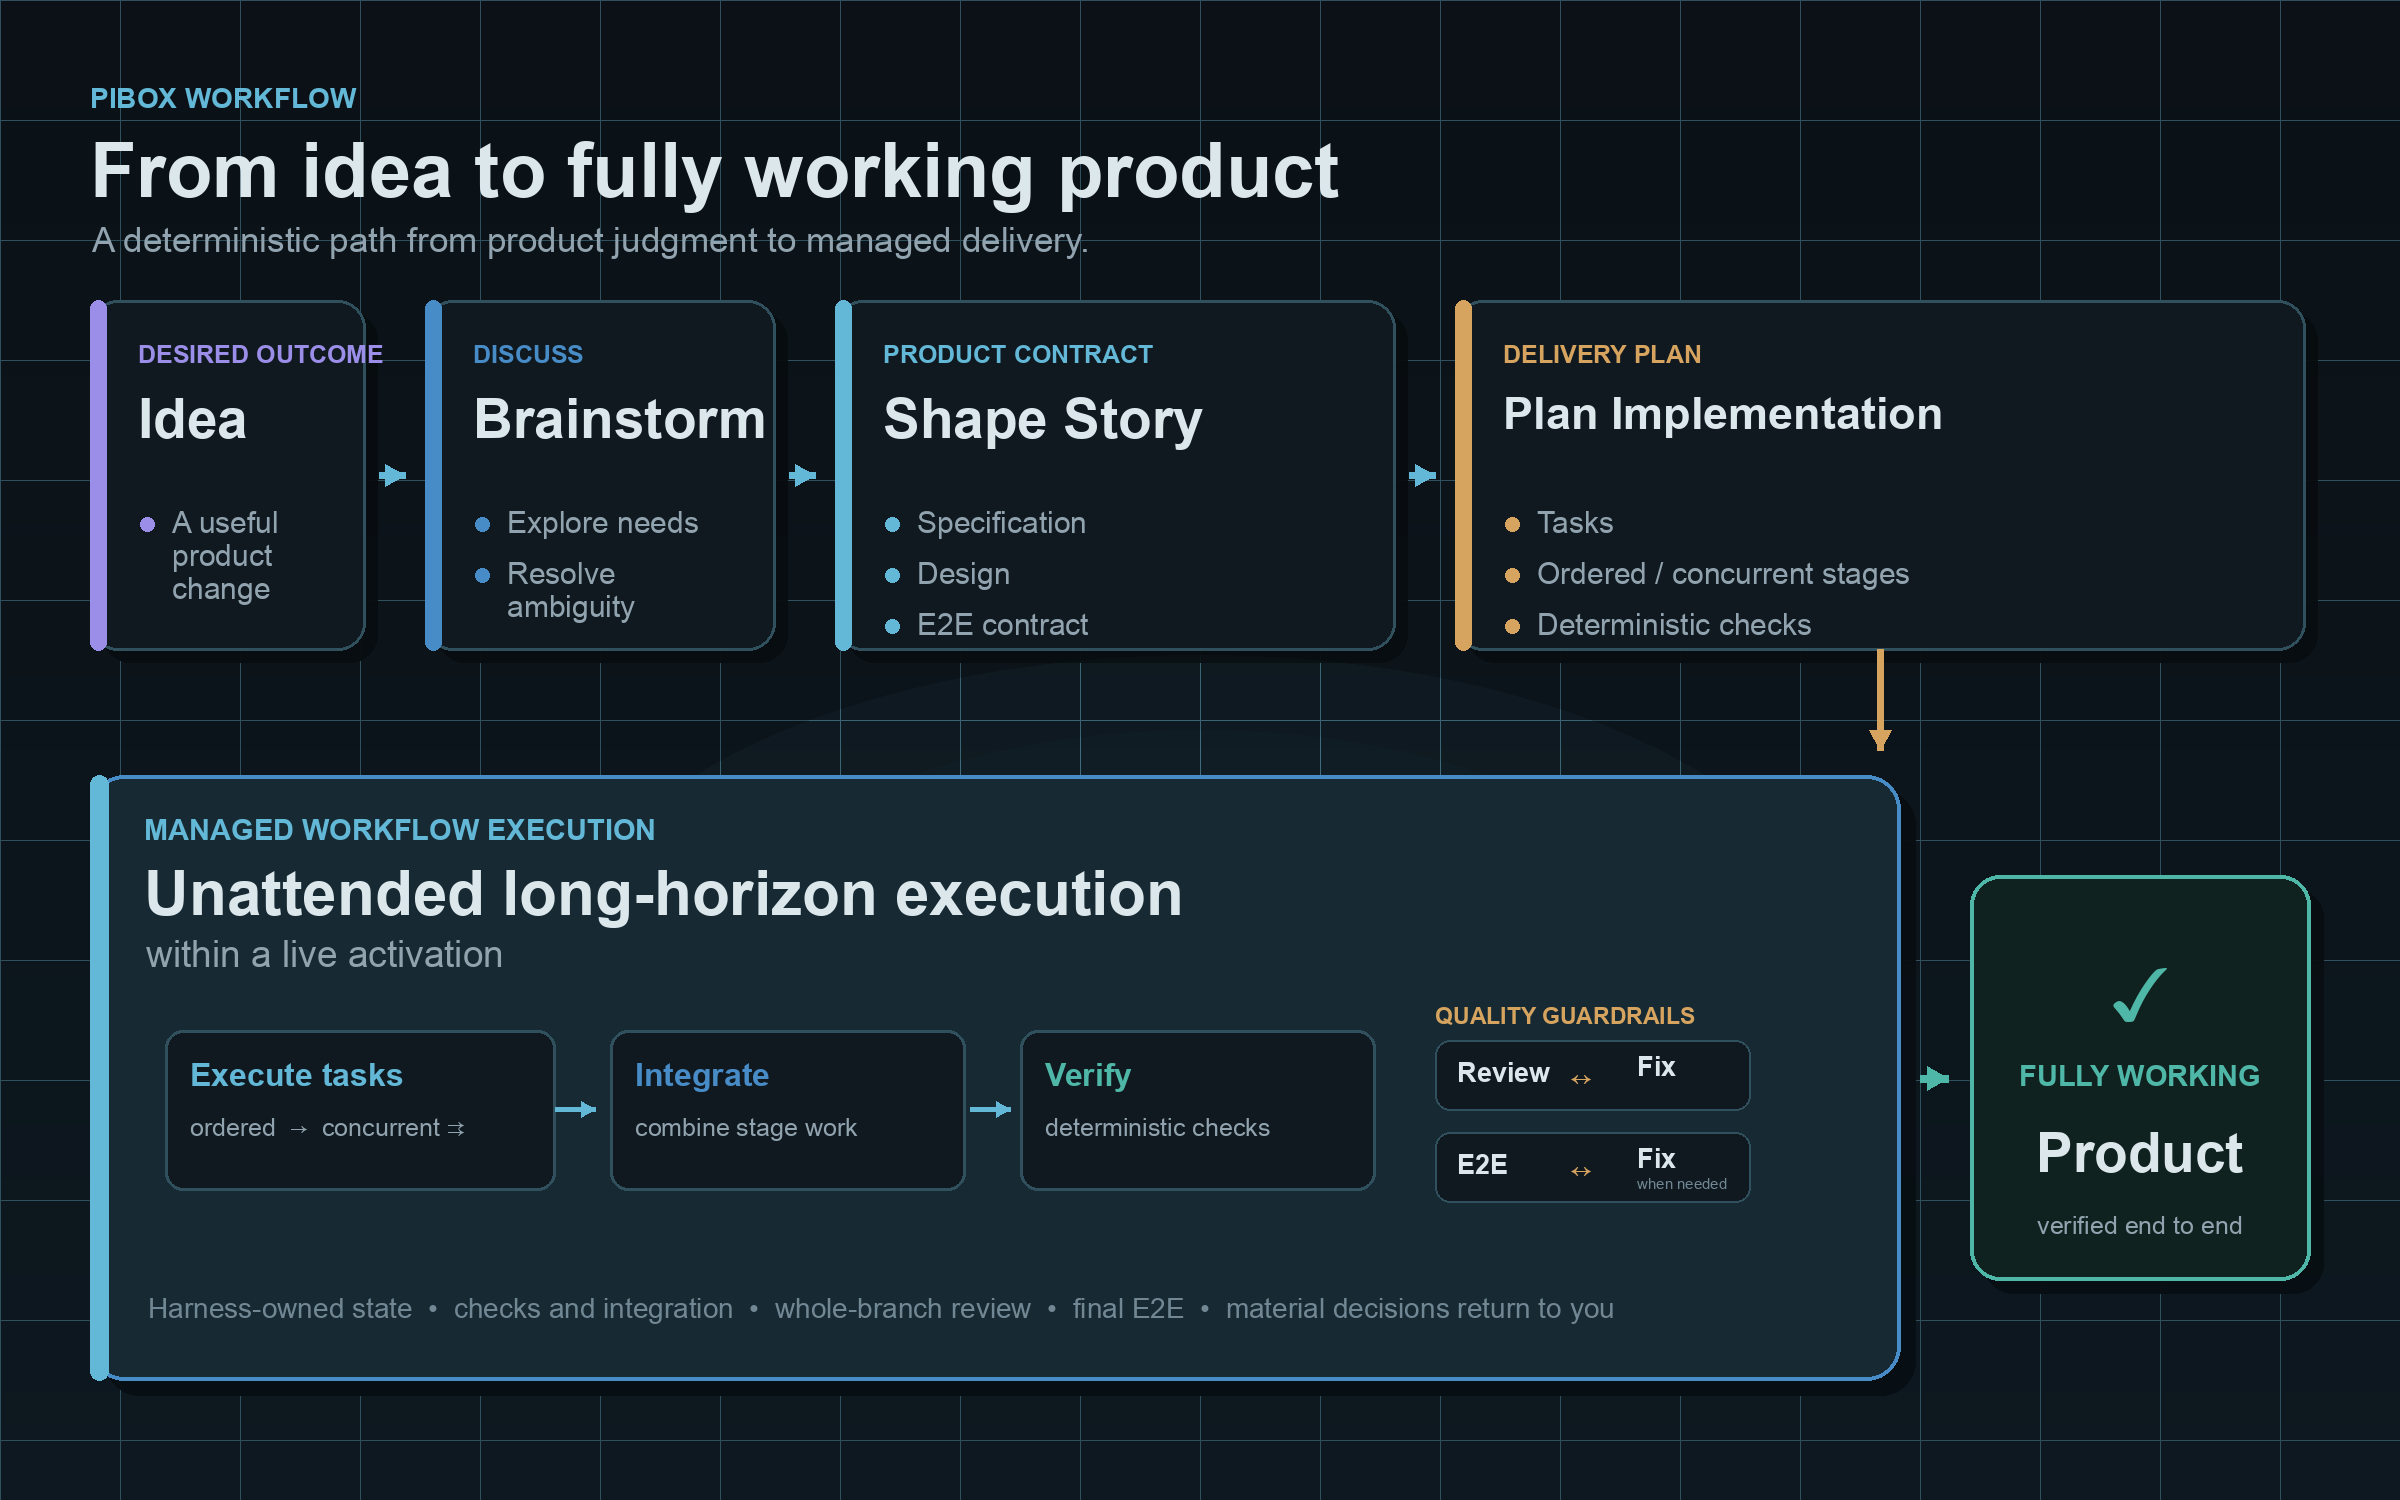
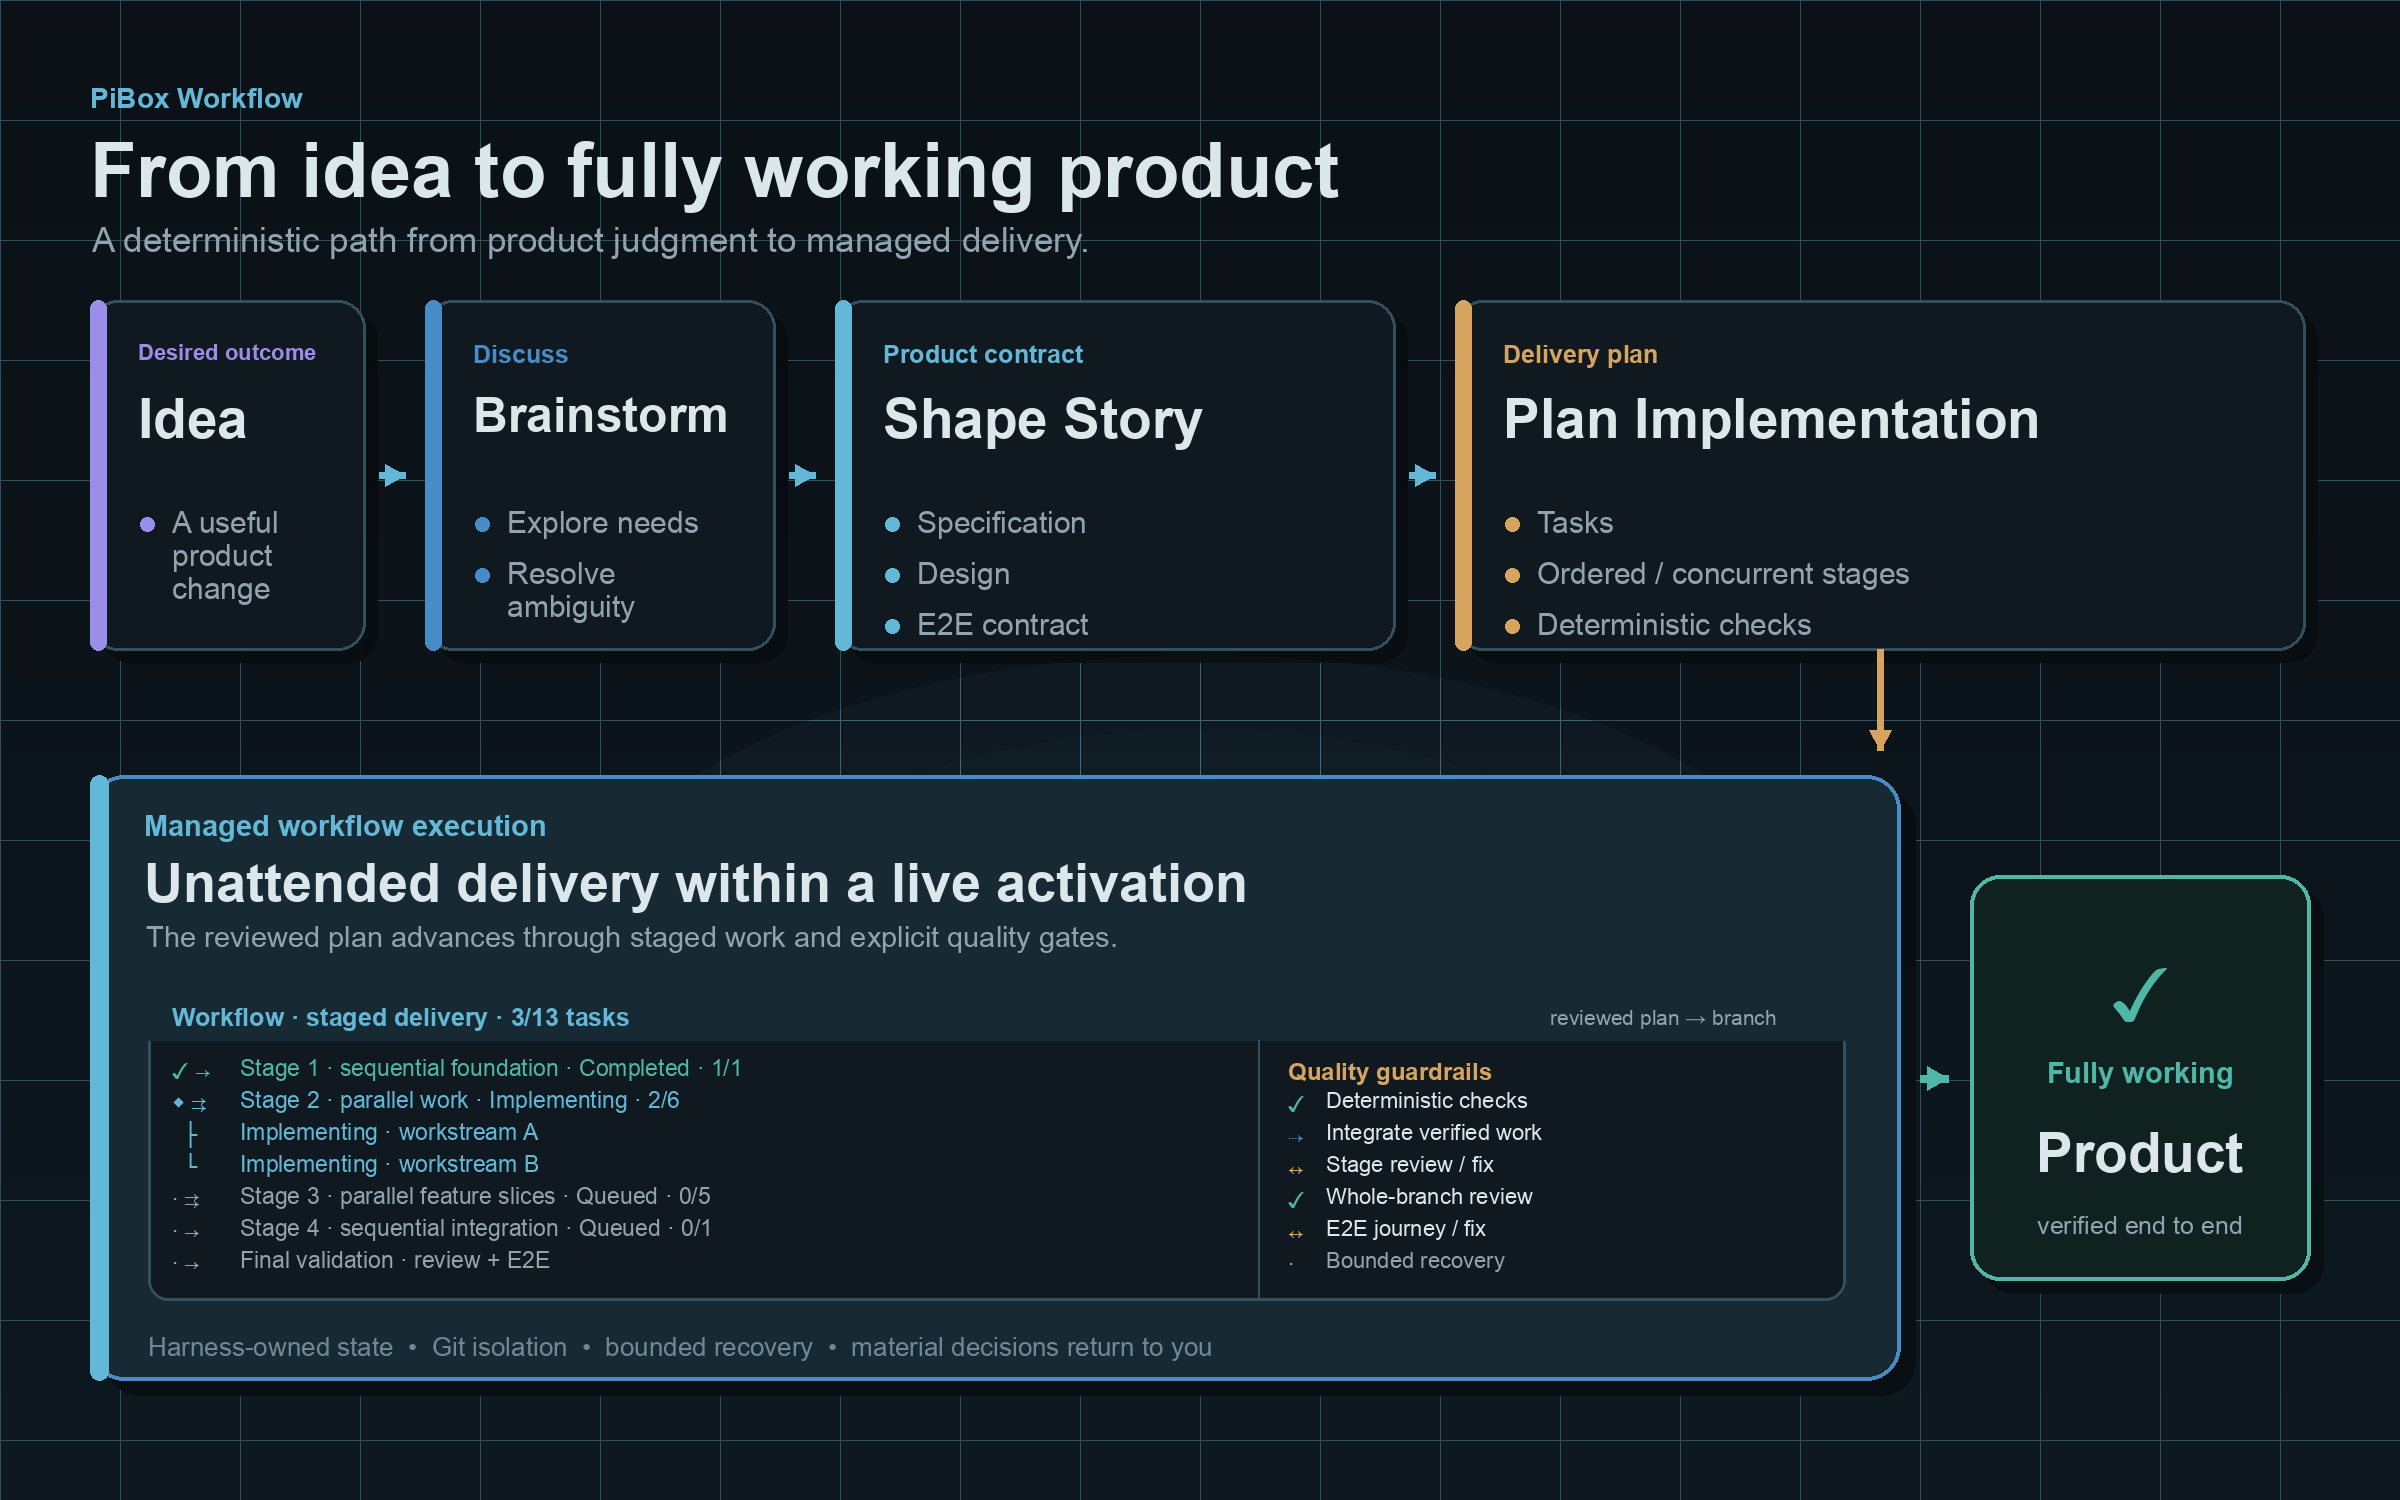
docs: refine workflow lifecycle chart

diff --git a/docs/assets/workflow-demo/render.py b/docs/assets/workflow-demo/render.py
@@ -98,6 +98,22 @@ def measure(draw: ImageDraw.ImageDraw, text: str, face: ImageFont.ImageFont) -> 
     return box[2] - box[0], box[3] - box[1]
 
 
+def fitting_font(
+    draw: ImageDraw.ImageDraw,
+    text: str,
+    kind: str,
+    maximum: int,
+    minimum: int,
+    max_width: int,
+) -> ImageFont.FreeTypeFont | ImageFont.ImageFont:
+    """Choose the largest available face that keeps a label inside its box."""
+    for size in range(maximum, minimum - 1, -1):
+        face = font(kind, size)
+        if measure(draw, text, face)[0] <= max_width:
+            return face
+    return font(kind, minimum)
+
+
 def wrap_text(
     draw: ImageDraw.ImageDraw, text: str, face: ImageFont.ImageFont, max_width: int
 ) -> list[str]:
@@ -226,18 +242,18 @@ class LifecycleNode:
 
 
 LIFECYCLE_NODES = (
-    LifecycleNode("Idea", "DESIRED OUTCOME", ("A useful product change",), (90, 300, 365, 650), P["violet"]),
-    LifecycleNode("Brainstorm", "DISCUSS", ("Explore needs", "Resolve ambiguity"), (425, 300, 775, 650), P["blue"]),
+    LifecycleNode("Idea", "Desired outcome", ("A useful product change",), (90, 300, 365, 650), P["violet"]),
+    LifecycleNode("Brainstorm", "Discuss", ("Explore needs", "Resolve ambiguity"), (425, 300, 775, 650), P["blue"]),
     LifecycleNode(
         "Shape Story",
-        "PRODUCT CONTRACT",
+        "Product contract",
         ("Specification", "Design", "E2E contract"),
         (835, 300, 1395, 650),
         P["cyan"],
     ),
     LifecycleNode(
         "Plan Implementation",
-        "DELIVERY PLAN",
+        "Delivery plan",
         ("Tasks", "Ordered / concurrent stages", "Deterministic checks"),
         (1455, 300, 2305, 650),
         P["amber"],
@@ -250,9 +266,11 @@ def lifecycle_card(image: Image.Image, node: LifecycleNode) -> None:
     rounded_panel(image, node.box, P["card"], P["separator"], radius=28, shadow=12, width=3)
     x1, y1, x2, y2 = node.box
     draw.rounded_rectangle((x1, y1, x1 + 16, y2), radius=8, fill=node.accent)
-    draw.text((x1 + 48, y1 + 40), node.kicker, font=font("bold", 25), fill=node.accent)
-    title_size = 55 if len(node.title) < 15 else 45
-    title_y = draw_wrapped(draw, (x1 + 48, y1 + 88), node.title, font("bold", title_size), P["ice"], x2 - x1 - 90, spacing=4)
+    text_width = x2 - x1 - 90
+    kicker_face = fitting_font(draw, node.kicker, "bold", 25, 18, text_width)
+    title_face = fitting_font(draw, node.title, "bold", 55, 36, text_width)
+    draw.text((x1 + 48, y1 + 40), node.kicker, font=kicker_face, fill=node.accent)
+    title_y = draw_wrapped(draw, (x1 + 48, y1 + 88), node.title, title_face, P["ice"], text_width, spacing=4)
     bullet_y = max(y1 + 205, title_y + 20)
     for bullet in node.bullets:
         draw.ellipse((x1 + 50, bullet_y + 12, x1 + 64, bullet_y + 26), fill=node.accent)
@@ -275,7 +293,7 @@ def render_lifecycle() -> None:
         gd.ellipse((1200 - radius, 980 - radius // 2, 1200 + radius, 980 + radius // 2), fill=(*hex_rgb(P["cyan"]), alpha))
     image.alpha_composite(glow)
 
-    draw.text((90, 82), "PIBOX WORKFLOW", font=font("bold", 28), fill=P["cyan"])
+    draw.text((90, 82), "PiBox Workflow", font=font("bold", 28), fill=P["cyan"])
     draw.text((90, 128), "From idea to fully working product", font=font("bold", 76), fill=P["ice"])
     draw.text(
         (92, 220),
@@ -293,45 +311,71 @@ def render_lifecycle() -> None:
     rounded_panel(image, execution, P["info"], P["blue"], radius=34, shadow=15, width=4)
     ex1, ey1, ex2, ey2 = execution
     draw.rounded_rectangle((ex1, ey1, ex1 + 18, ey2), radius=9, fill=P["cyan"])
-    draw.text((ex1 + 54, ey1 + 38), "MANAGED WORKFLOW EXECUTION", font=font("bold", 29), fill=P["cyan"])
-    draw.text((ex1 + 54, ey1 + 83), "Unattended long-horizon execution", font=font("bold", 62), fill=P["ice"])
-    draw.text((ex1 + 56, ey1 + 158), "within a live activation", font=font("regular", 37), fill=P["steel"])
-
-    # The central execution rail.
-    rail_y = ey1 + 300
-    phases = (
-        (ex1 + 75, 390, "Execute tasks", "ordered  →  concurrent ⇉", P["cyan"]),
-        (ex1 + 520, 355, "Integrate", "combine stage work", P["blue"]),
-        (ex1 + 930, 355, "Verify", "deterministic checks", P["teal"]),
+    draw.text((ex1 + 54, ey1 + 34), "Managed workflow execution", font=font("bold", 29), fill=P["cyan"])
+    draw.text((ex1 + 54, ey1 + 78), "Unattended delivery within a live activation", font=font("bold", 54), fill=P["ice"])
+    draw.text(
+        (ex1 + 56, ey1 + 145),
+        "The reviewed plan advances through staged work and explicit quality gates.",
+        font=font("regular", 29),
+        fill=P["steel"],
     )
-    for x, width, title, detail, accent in phases:
-        box = (x, rail_y - 45, x + width, rail_y + 115)
-        draw.rounded_rectangle(box, radius=18, fill=P["card"], outline=P["separator"], width=3)
-        draw.text((x + 25, rail_y - 18), title, font=font("bold", 32), fill=accent)
-        draw.text((x + 25, rail_y + 34), detail, font=font("unicode", 25), fill=P["steel"])
-    arrow(draw, (ex1 + 465, rail_y + 34), (ex1 + 505, rail_y + 34), width=5, head=16)
-    arrow(draw, (ex1 + 880, rail_y + 34), (ex1 + 920, rail_y + 34), width=5, head=16)
 
-    guard_x = ex1 + 1345
-    draw.text((guard_x, rail_y - 72), "QUALITY GUARDRAILS", font=font("bold", 23), fill=P["amber"])
-    guardrails = (("Review", "Fix"), ("E2E", "Fix"))
-    for index, (left, right) in enumerate(guardrails):
-        y = rail_y - 35 + index * 92
-        draw.rounded_rectangle((guard_x, y, guard_x + 315, y + 70), radius=15, fill=P["card"], outline=P["separator"], width=2)
-        draw.text((guard_x + 22, y + 17), left, font=font("bold", 27), fill=P["ice"])
-        draw.text((guard_x + 135, y + 14), "↔", font=font("unicode", 31), fill=P["amber"])
-        draw.text((guard_x + 202, y + 11), right, font=font("bold", 27), fill=P["ice"])
-        if index == 1:
-            draw.text((guard_x + 202, y + 43), "when needed", font=font("regular", 15), fill=P["mist"])
+    # Mirror the production TUI: an authoritative stage pane plus a compact
+    # quality pane, with only the current concurrent stage expanded.
+    widget = (ex1 + 58, ey1 + 215, ex2 - 55, ey1 + 525)
+    wx1, wy1, wx2, wy2 = widget
+    draw.rounded_rectangle(widget, radius=20, fill=P["card"], outline=P["separator"], width=3)
+    draw.rounded_rectangle((wx1, wy1, wx2, wy1 + 50), radius=20, fill=P["selected"])
+    draw.rectangle((wx1, wy1 + 26, wx2, wy1 + 50), fill=P["selected"])
+    draw.text((wx1 + 24, wy1 + 13), "Workflow · staged delivery · 3/13 tasks", font=font("bold", 25), fill=P["cyan"])
+    draw.text((wx2 - 295, wy1 + 15), "reviewed plan → branch", font=font("regular", 21), fill=P["steel"])
 
-    draw.text((ex1 + 58, ey2 - 88), "Harness-owned state  •  checks and integration  •  whole-branch review  •  final E2E  •  material decisions return to you", font=font("regular", 28), fill=P["mist"])
+    divider_x = wx1 + 1110
+    draw.line((divider_x, wy1 + 50, divider_x, wy2), fill=P["separator"], width=2)
+    stage_rows = (
+        ("✓ →", "Stage 1 · sequential foundation · Completed · 1/1", P["teal"]),
+        ("◆ ⇉", "Stage 2 · parallel work · Implementing · 2/6", P["cyan"]),
+        ("  ├", "Implementing · workstream A", P["cyan"]),
+        ("  └", "Implementing · workstream B", P["cyan"]),
+        ("· ⇉", "Stage 3 · parallel feature slices · Queued · 0/5", P["steel"]),
+        ("· →", "Stage 4 · sequential integration · Queued · 0/1", P["steel"]),
+        ("· →", "Final validation · review + E2E", P["steel"]),
+    )
+    row_y = wy1 + 65
+    for prefix, label, color in stage_rows:
+        draw.text((wx1 + 24, row_y), prefix, font=font("unicode", 22), fill=color)
+        draw.text((wx1 + 92, row_y), label, font=font("regular", 23), fill=color)
+        row_y += 32
+
+    guard_x = divider_x + 30
+    draw.text((guard_x, wy1 + 68), "Quality guardrails", font=font("bold", 24), fill=P["amber"])
+    guardrails = (
+        ("✓", "Deterministic checks", P["teal"]),
+        ("⇢", "Integrate verified work", P["blue"]),
+        ("↔", "Stage review / fix", P["amber"]),
+        ("✓", "Whole-branch review", P["teal"]),
+        ("↔", "E2E journey / fix", P["amber"]),
+        ("·", "Bounded recovery", P["steel"]),
+    )
+    guard_y = wy1 + 98
+    for prefix, label, color in guardrails:
+        draw.text((guard_x, guard_y), prefix, font=font("unicode", 22), fill=color)
+        draw.text((guard_x + 38, guard_y), label, font=font("regular", 22), fill=P["ice"] if color != P["steel"] else P["steel"])
+        guard_y += 32
+
+    draw.text(
+        (ex1 + 58, ey2 - 48),
+        "Harness-owned state  •  Git isolation  •  bounded recovery  •  material decisions return to you",
+        font=font("regular", 26),
+        fill=P["mist"],
+    )
 
     # Product endpoint.
     product = (1970, 875, 2310, 1280)
     rounded_panel(image, product, "#10221F", P["teal"], radius=30, shadow=13, width=4)
     px1, py1, px2, py2 = product
     centered_text(draw, (px1 + 95, py1 + 42, px2 - 95, py1 + 142), "✓", font("unicode", 76), P["teal"])
-    centered_text(draw, (px1 + 30, py1 + 160, px2 - 30, py1 + 230), "FULLY WORKING", font("bold", 29), P["teal"])
+    centered_text(draw, (px1 + 30, py1 + 160, px2 - 30, py1 + 230), "Fully working", font("bold", 29), P["teal"])
     centered_text(draw, (px1 + 25, py1 + 225, px2 - 25, py1 + 310), "Product", font("bold", 55), P["ice"])
     centered_text(draw, (px1 + 25, py1 + 320, px2 - 25, py1 + 370), "verified end to end", font("regular", 25), P["steel"])
     arrow(draw, (ex2 + 20, 1078), (px1 - 22, 1078), color=P["teal"], width=8, head=24)
